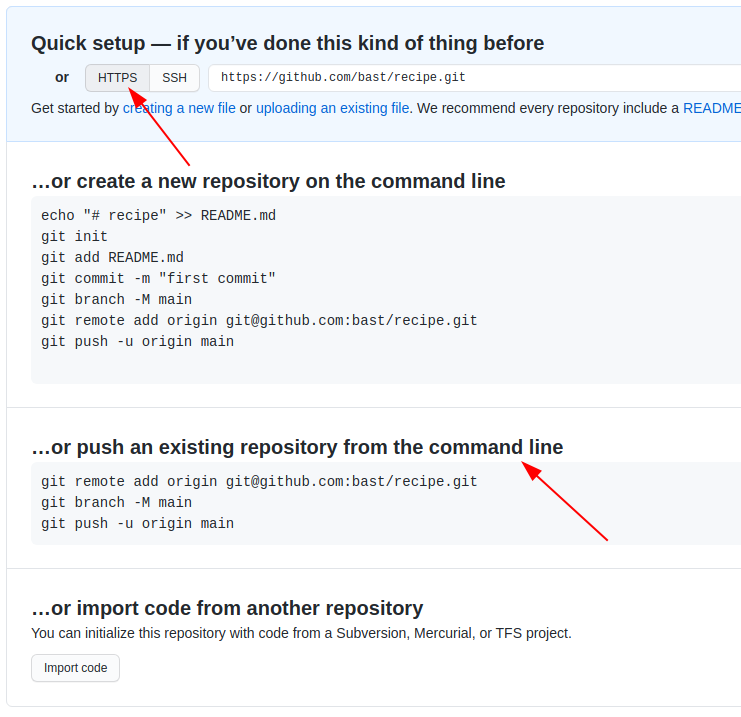
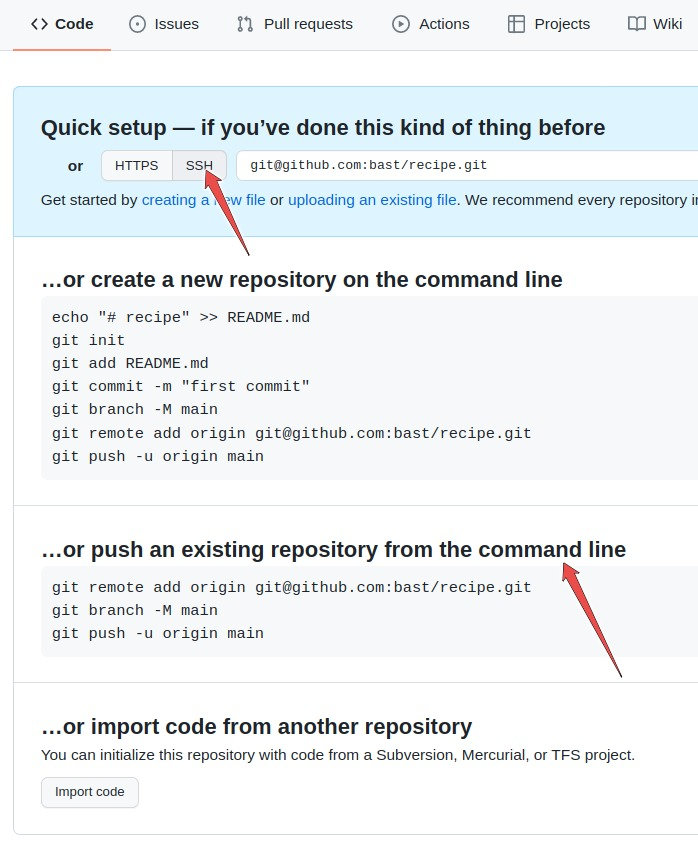
we now recommend ssh and not https

diff --git a/content/remotes.md b/content/remotes.md
@@ -109,9 +109,8 @@ Once you click the green "Create repository", you will see a page similar to:
 What this means is that we have now an empty project with either an HTTPS or an
 SSH address: click on the HTTPS and SSH buttons to see what happens.
 
-To push changes to the project you will either need SSH keys for the SSH
-address (preferred) or you will have to use your GitHub username and password when
-using the HTTPS address.  **If you don't know what to do, use HTTPS.**
+To push changes to the project please **select SSH**.
+For this to work [you will need your SSH keys configured](https://coderefinery.github.io/installation/ssh/).
 
 ---
 
@@ -127,7 +126,7 @@ We now want to try the second option that GitHub suggests:
   need to replace the "user" part and possibly also the repository name**):
 
 ```console
-$ git remote add origin https://github.com/user/recipe.git
+$ git remote add origin git@github.com:user/recipe.git
 $ git branch -M main
 $ git push -u origin main
 ```
@@ -144,7 +143,7 @@ Enumerating objects: 3, done.
 Counting objects: 100% (3/3), done.
 Writing objects: 100% (3/3), 221 bytes | 221.00 KiB/s, done.
 Total 3 (delta 0), reused 0 (delta 0), pack-reused 0
-To github.com:bast/recipe.git
+To github.com:user/recipe.git
  * [new branch]      main -> main
 Branch 'main' set up to track remote branch 'main' from 'origin'.
 ```
@@ -166,21 +165,19 @@ At this point only a brief demo - if you copy the SSH or HTTPS address, you can 
 (again adapt the "namespace/repository.git" part):
 
 ```console
-$ git clone https://github.com/user/recipe.git
+$ git clone git@github.com:user/recipe.git
 ```
 
 This creates a directory called "recipe" unless it already exists. You can also specify the target directory
 on your computer:
 
 ```console
-$ git clone https://github.com/user/recipe.git myrecipe
+$ git clone git@github.com:user/recipe.git myrecipe
 ```
 
 What just happened? **Think of cloning as downloading the `.git` part to your
 computer**. After downloading the `.git` part the branch pointed to by HEAD is
 automatically checked out.
-
-
 
 ```{keypoints}
 - A repository can have one or multiple remotes (we will revisit these later).
